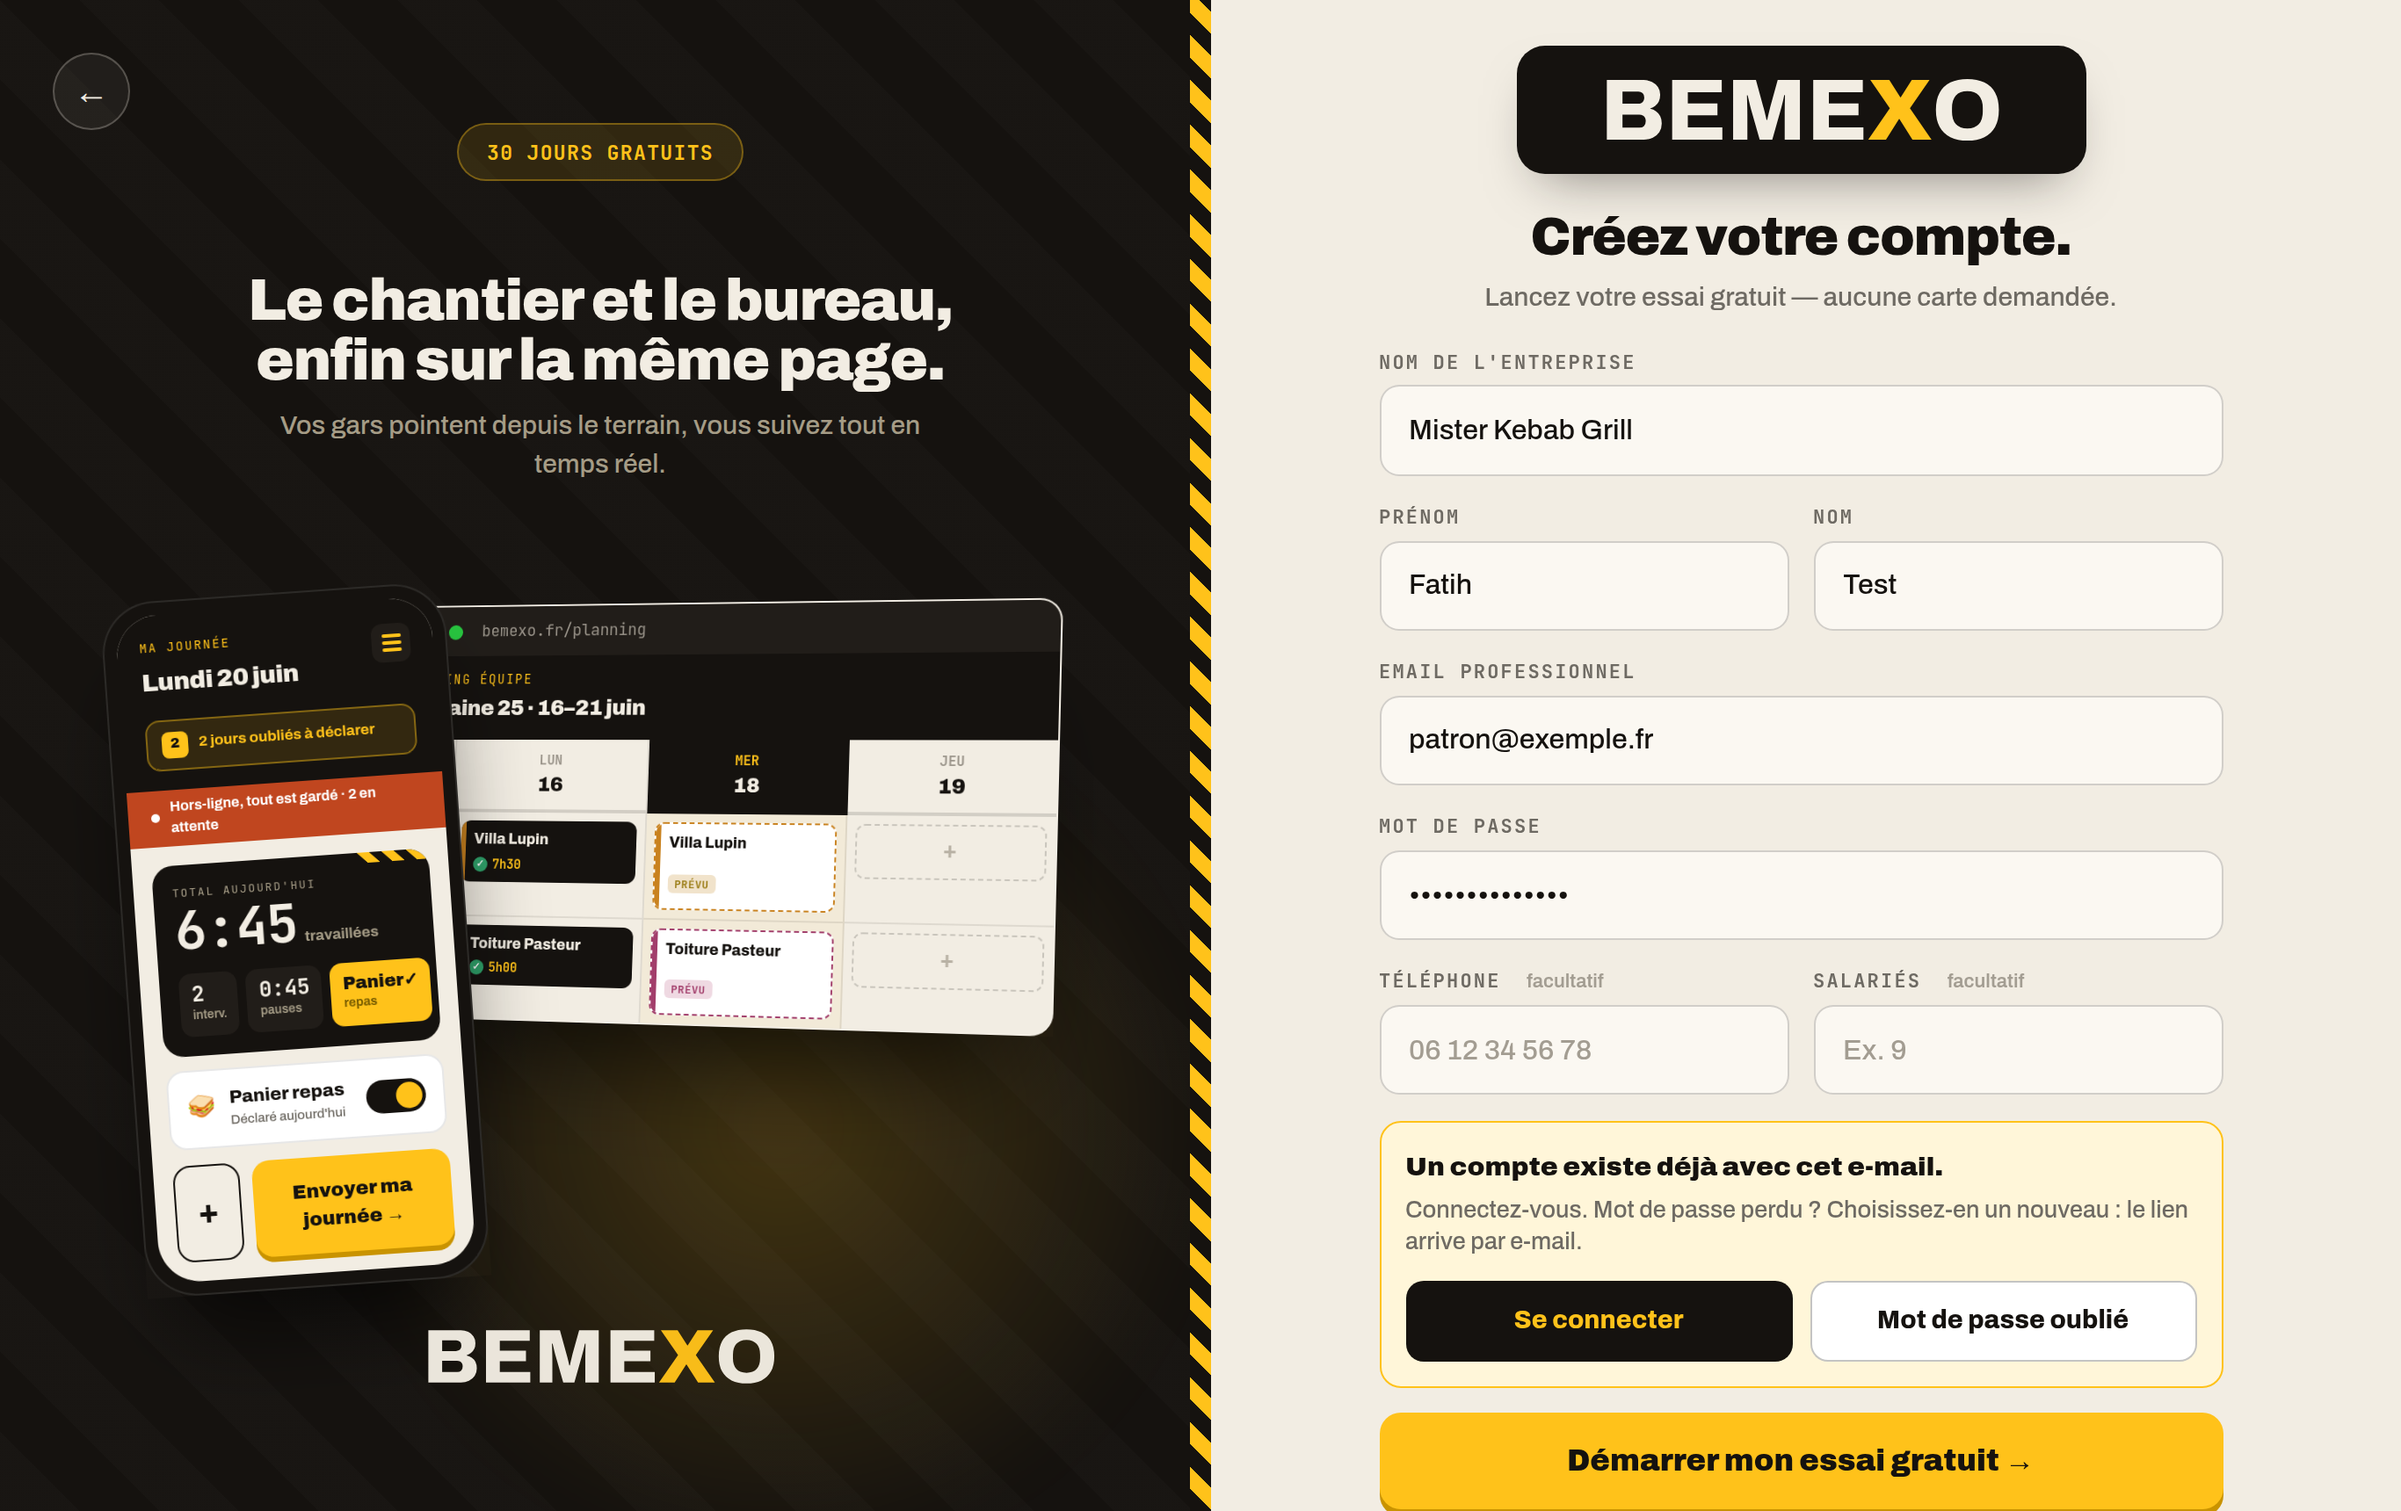
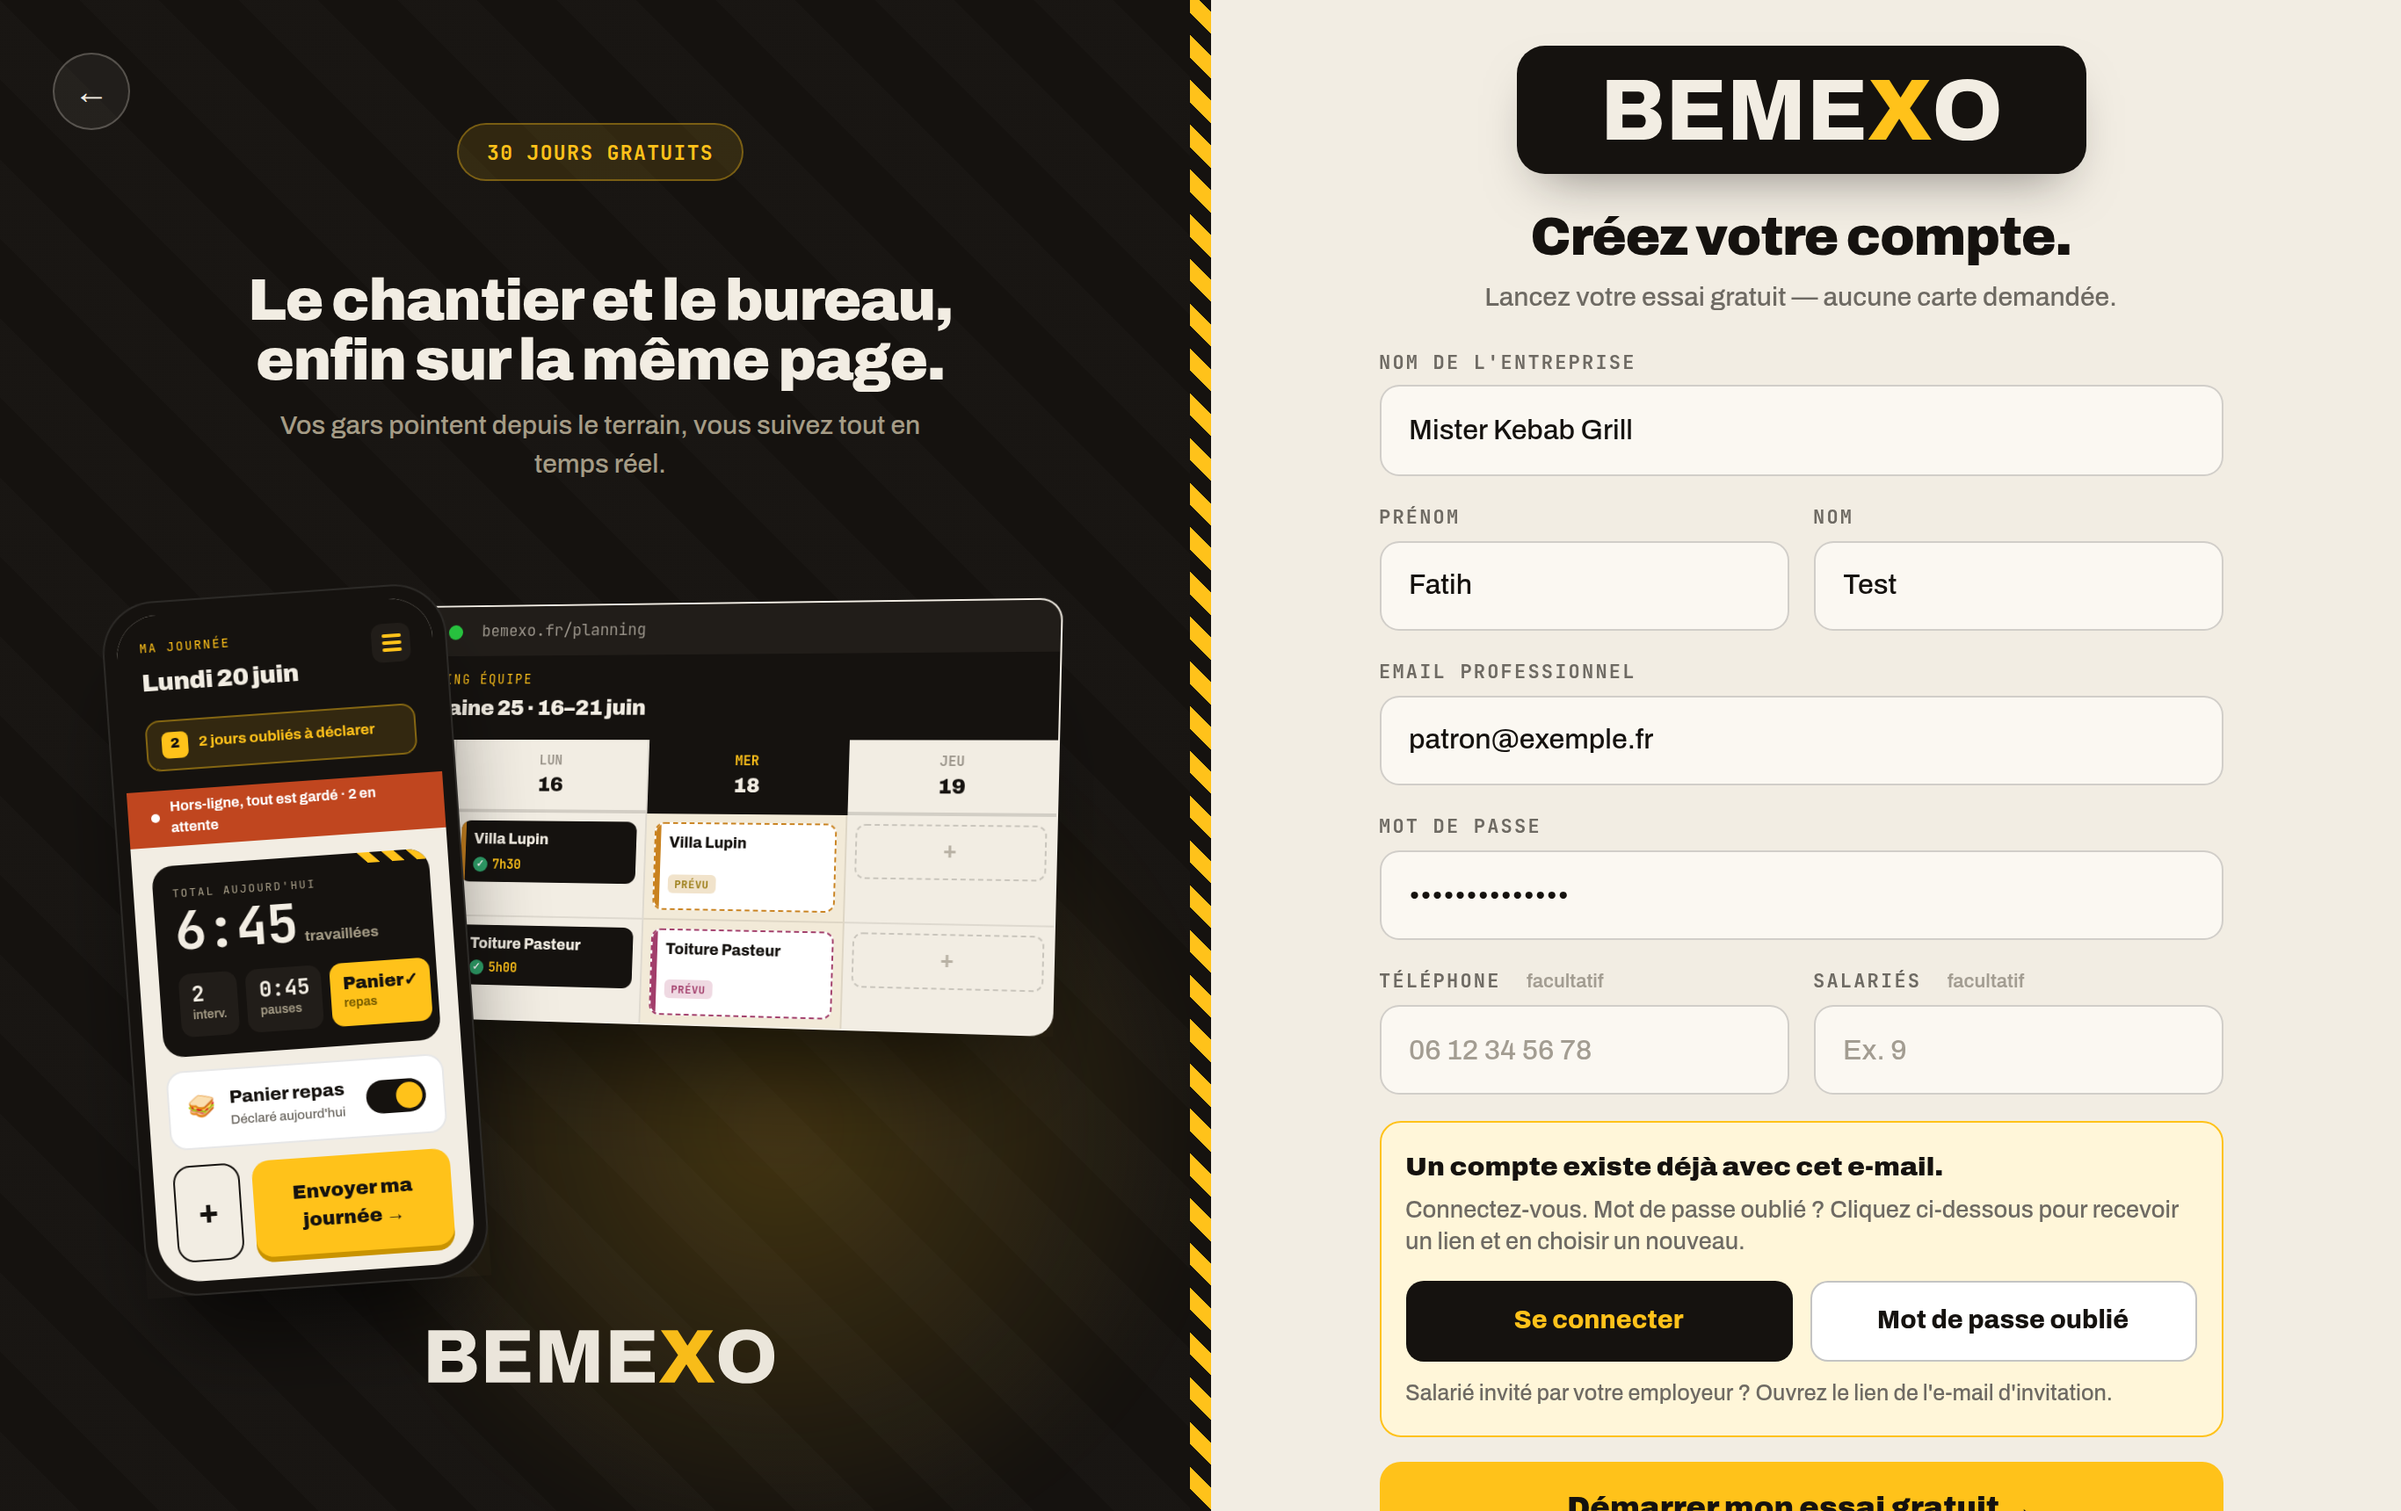
Inscription : texte plus clair, salarié invité, focus clavier, test renforcé
Suite de la relecture du correctif « compte existant » :
- texte : « Cliquez ci-dessous pour recevoir un lien » (rien ne part avant) ;
- ligne pour le salarié invité pas encore inscrit (Supabase renvoie aussi
  identities vide) : ouvrir le lien de l'e-mail d'invitation ;
- le focus clavier va sur « Se connecter » quand l'encadré apparaît ;
- accents des deux anciens messages (« Compte créé », « création ») ;
- test : attente sur l'élément (plus de délai fixe), espion GA4 (aucun
  sign_up pour un doublon), réponse 422 au format actuel. 36/36.

Claude-Session: https://claude.ai/code/session_01UjXHEzdjb9t6bteo8SrVhu

diff --git a/app/inscription/page.tsx b/app/inscription/page.tsx
@@ -1,6 +1,6 @@
 'use client';
 
-import { useRef, useState } from 'react';
+import { useEffect, useRef, useState } from 'react';
 import { useRouter } from 'next/navigation';
 import { supabase } from '@/lib/supabase';
 import { passwordProblem, PASSWORD_PLACEHOLDER, PASSWORD_RULE } from '@/lib/password';
@@ -9,8 +9,8 @@ import { ASIDE_FULL } from './_illustrations';
 
 // Design "noir + jaune chantier" (maquette Claude Design). Habillage uniquement :
 // la creation de compte (signUp + metadonnees -> trigger qui cree l'entreprise +
-// rattache en admin), la redirection /admin et la gestion d'erreurs restent
-// INCHANGEES.
+// rattache en admin) et la redirection /admin restent INCHANGEES. Seule
+// nouveauté : une adresse qui a déjà un compte reçoit un message dédié.
 //
 // IMPORTANT — repartition des roles :
 //  - Le PANNEAU NOIR (aside, vitrine 3D) vient du designer : injecte tel quel
@@ -64,6 +64,7 @@ const SIGNUP_CSS = `
 .bt-exists-btns a{display:flex;align-items:center;justify-content:center;text-align:center;text-decoration:none;font-weight:800;font-size:14.5px;padding:11px 8px;border-radius:10px}
 .bt-exists-login{background:#15120F;color:#FFC21A}
 .bt-exists-reset{background:#fff;color:#15120F;border:1.5px solid rgba(21,18,15,.25)}
+.bt-exists-n{font-size:12.5px;font-weight:500;color:#6E6A63;margin:10px 0 0;line-height:1.4}
 @media(min-width:881px){
   .bt-split{height:100vh;height:100svh;min-height:0}
   .bt-formcol{height:100vh;height:100svh;overflow-y:auto}
@@ -114,9 +115,13 @@ export default function InscriptionPage() {
   const [info, setInfo] = useState<string | null>(null);
   // L'adresse a déjà un compte : on le dit, avec « Se connecter » et « Mot de passe oublié ».
   const [exists, setExists] = useState(false);
+  const loginLink = useRef<HTMLAnchorElement>(null);
   const router = useRouter();
   // Événement GA4 « sign_up » : une seule fois par compte créé.
   const signUpTracked = useRef(false);
+
+  // Au clavier, on arrive directement sur « Se connecter ».
+  useEffect(() => { if (exists) loginLink.current?.focus(); }, [exists]);
 
   // ── Creation de compte (adresse déjà inscrite : message dédié, voir plus bas) ──
   const handleSignup = async (e: React.FormEvent) => {
@@ -156,10 +161,11 @@ export default function InscriptionPage() {
         return;
       }
 
-      // identities vide = adresse déjà inscrite et confirmée : Supabase répond
-      // « OK » sans créer de compte ni envoyer d'e-mail (pour ne pas révéler
-      // qu'un compte existe). Annoncer « vérifiez vos e-mails » laisserait la
-      // personne attendre un message qui ne viendra jamais.
+      // identities vide = adresse qui a déjà un compte (confirmé, ou salarié
+      // invité) : Supabase répond « OK » sans créer de compte (pour ne pas
+      // révéler qu'un compte existe) et sans e-mail pour un compte confirmé.
+      // Annoncer « vérifiez vos e-mails » laisserait la personne attendre un
+      // message qui ne viendra jamais.
       if (data.user && data.user.identities?.length === 0) {
         setExists(true);
         return;
@@ -167,9 +173,8 @@ export default function InscriptionPage() {
 
       // Mesure GA4 (ne part que si la mesure d'audience est acceptée).
       // Aucune donnée personnelle : seulement la méthode d'inscription.
-      // identities vide = e-mail déjà inscrit (Supabase répond « OK » sans
-      // créer de compte) : pas de sign_up dans ce cas.
-      const compteCree = !!data.user && (data.user.identities?.length ?? 1) > 0;
+      // L'adresse déjà inscrite est sortie plus haut : pas de sign_up pour elle.
+      const compteCree = !!data.user;
       if (compteCree && !signUpTracked.current) {
         signUpTracked.current = true;
         (window as unknown as { bxTrack?: (n: string, p: object) => void }).bxTrack?.('sign_up', { method: 'email' });
@@ -180,10 +185,10 @@ export default function InscriptionPage() {
         return;
       }
 
-      setInfo('Compte cree. Verifiez votre email pour activer votre acces, puis connectez-vous.');
+      setInfo('Compte créé. Vérifiez votre email pour activer votre accès, puis connectez-vous.');
     } catch (err) {
       console.error('Signup error:', err);
-      setError('Une erreur est survenue lors de la creation du compte. Veuillez reessayer.');
+      setError('Une erreur est survenue lors de la création du compte. Veuillez réessayer.');
     } finally {
       setLoading(false);
     }
@@ -254,11 +259,12 @@ export default function InscriptionPage() {
                 {exists && (
                   <div className="bt-exists" role="alert">
                     <p className="bt-exists-t">Un compte existe déjà avec cet e-mail.</p>
-                    <p className="bt-exists-s">Connectez-vous. Mot de passe perdu&nbsp;? Choisissez-en un nouveau : le lien arrive par e-mail.</p>
+                    <p className="bt-exists-s">Connectez-vous. Mot de passe oublié&nbsp;? Cliquez ci-dessous pour recevoir un lien et en choisir un nouveau.</p>
                     <div className="bt-exists-btns">
-                      <Link href="/connexion" className="bt-exists-login">Se connecter</Link>
+                      <Link href="/connexion" className="bt-exists-login" ref={loginLink}>Se connecter</Link>
                       <Link href="/mot-de-passe-oublie" className="bt-exists-reset">Mot de passe oublié</Link>
                     </div>
+                    <p className="bt-exists-n">Salarié invité par votre employeur&nbsp;? Ouvrez le lien de l&apos;e-mail d&apos;invitation.</p>
                   </div>
                 )}
 
